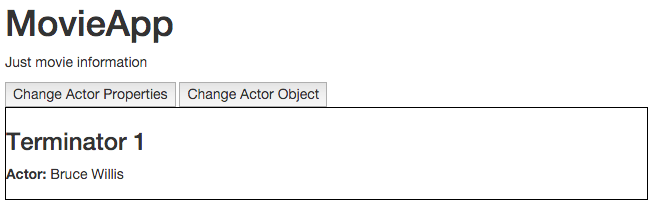
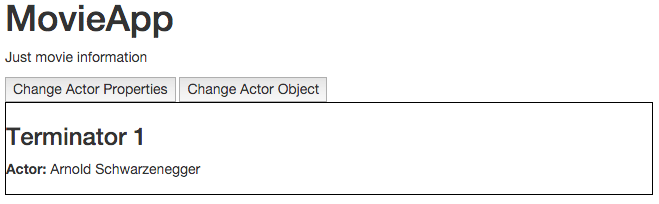
Completed handout for change detection

diff --git a/06-change-detection.md b/06-change-detection.md
@@ -1,21 +1,17 @@
 # Part 6: Change Detection
 
-In Angular 1, the framework kept a long list of watchers (one for every property bound to our templates) that needed to be checked everytime a change was detected in our application. This was called *dirty checking* and it was the only change detection strategy available.
+Change detecion has changed in a big way between the old version of Angular and the new one. In Angular 1, the framework kept a long list of watchers (one for every property bound to our templates) that needed to be checked everytime a digest cycle was started. This was called *dirty checking* and it was the only change detection strategy available.
 
-Because by default Angular 1 implemented two way data binding, the flow of changes was pretty much chaotic, models were able to change directives, directives were able to change models, directive
+Because by default Angular 1 implemented two way data binding, the flow of changes was pretty much chaotic, models were able to change directives, directives were able to change models, directive were able to change another directives and models were able to change another models.
 
-- Models were able to change the directives (`$scope`) and directives were able to change models.
-- Directives (`$scope`) were able to change its template (`DOM`) and the end user interacting with the template were able to change the directive.
-- Directives were able to change another directives.
-- Models were able to change another models.
+In Angular 2, **the flow of information is unidirectional**, even when using `ngModel` to implemente two way data binding, that is only syntactic sugar on top of unidrectional flow. In this new version of the framework, our code is responsible for updating the models. Angular is only going to be responsible to reflect those changes in the components and the DOM by means of the change detection.
 
-In Angular 2, **the flow of information is unidirectional**, even when using `ngModel` to implemente two way data binding, that is only syntactic sugar on top of unidrectional flow. In this new version of the framework, our code is responsible to update the models and propagate changes to other models if needed. Angular is only going to be responsible to reflect those changes in the components and the DOM by means of the change detection.
-
-*Change detection strategies in Angular 1 vs Angular 2* 
-
+_Change detection responsabilities_
 ![File Structure](images/change-detection.jpg)
 
-Another difference between both versions of the frameworks is the way the nodes of an application (directives or components) are checked to see if the DOM needs to be updated.
+## Change Detection Strategies in Angular 1 vs Angular 2
+
+Another difference between both versions of the framework is the way the nodes of an application (directives or components) are checked to see if the DOM needs to be updated.
 
 Because of the nature of two way data binding, in Angular 1 there was no guarantee that a parent node should be checked always before a child node. It was perfectly possible that a child node could also change a parent node or a sibling or any other node in the tree, and that in turn will trigger new updates down the chain. This made difficult for the change detector to traverse all the nodes without falling in a circular loop with the infamous message:
 
@@ -23,17 +19,19 @@ Because of the nature of two way data binding, in Angular 1 there was no guarant
 10 $digest() iterations reached. Aborting!
 ```
 
-In Angular 2, there is a guarantee that changes are propagated in an unidirectional way so the change detector **can traverse only 1** all the nodes of the application, starting always from the root. That means that a parent component is always checked first than its children components.
+In Angular 2, there is guarantee that changes are propagated in an unidirectional way so the change detector can **traverse only once all the nodes** of the application, starting always from the root. That means that a parent component is always checked first than its children components.
 
 *Tree traversing in Angular 1 vs Angular 2*
 
 ![File Structure](images/angular1-vs-angular2.jpg)
 
-Let's see how it works with a simple example.
+## How the Change Detection Works
 
-We are going to create a simple `MovieApp` to show information about one movie. This app is going to consist of two components, the `MovieComponent` who shows information about a movie and the `MainComponent` which holds a reference to the movie and buttons to perform actions.
+Let's see how the change detection works with a simple example.
 
-As always, the first step is to create our `index.html` file calling a root component of our app `MainComponent`.
+We are going to create a simple `MovieApp` to show information about one movie. This app is going to consist of two components, the `MovieComponent` that shows information about a movie, and the `MainComponent` which holds a reference to the movie with buttons to perform some actions.
+
+As always, the first step is to create our `index.html` file using the html element defined in our root component of our app `MainComponent`.
 
 *index.html*
 ```html
@@ -45,7 +43,17 @@ As always, the first step is to create our `index.html` file calling a root comp
 </html>
 ```
 
-Then, our `MainComponent` will have three properties, the `title` of the movie and the lead `actor`. All these properties are going to be passed to the `MovieComponent` element, referenced in the template.
+And the boot file to load the application.
+
+_app/boot.ts_
+```javascript
+import {bootstrap} from 'angular2/platform/browser';
+import {MainComponent} from './main.component';
+
+bootstrap(MainComponent);
+```
+
+Then, our `MainComponent` will have three properties, the `slogan` of the app, the `title` of the movie and the lead `actor`. The last two properties are going to be passed to the `MovieComponent` element, referenced in the template.
 
 *app/main.component.ts*
 ```javascript
@@ -82,7 +90,7 @@ export class MainComponent {
 bootstrap(MainComponent);
 ```
 
-We notice that this component also defines two buttons that triggers different actions or methods. The `changeActorProperties` is going to update the lead actor of the movie by means of changing directly the properties of the `actor` object. In contrast, the method `changeActorObject` will change the information of the actor by creating a completely new instance of the `Actor` class.
+In the above code snippet, we can see that our component defines two buttons that trigger different methods. The `changeActorProperties` is going to update the lead actor of the movie by means of changing directly the properties of the `actor` object. In contrast, the method `changeActorObject` will change the information of the actor by creating a completely new instance of the `Actor` class.
 
 The `Actor` model is pretty straightforward, is just a class that defines the `firstName` and the `lastName` of an actor. 
 
@@ -95,7 +103,7 @@ export class Actor {
 }
 ```
 
-Finally, the `MovieComponent` shows the information provided by the MainComponent in its template. It also defines an internal method to update the `actor` object by changing its properties.
+Finally, the `MovieComponent` shows the information provided by the MainComponent in its template.
 
 *app/movie.component.ts*
 ```javascript
@@ -120,13 +128,13 @@ export class MovieComponent {
 }
 ```
 
-The final result is shown in the screenshot below.
+The final result of the app is shown in the screenshot below.
 
 ![File Structure](images/app-screenshot.png)
 
 ## Change Detection Strategy: Default
 
-By default, Angular is defining certain Change Detection Strategy for every component in our application. To make this definition explicit, we can use the property `changeDetection` of the `@Component` decorator.
+By default, Angular is defining certain change detection strategy for every component in our application. To make this definition explicit, we can use the property `changeDetection` of the `@Component` decorator.
 
 _app/movie.component.ts_
 ```javascript
@@ -142,6 +150,8 @@ export class MovieComponent {
 }
 ```
 
+[View Example](http://plnkr.co/edit/n6m7rOtxG5MU0tsRl5xX?p=preview)
+
 The enum `ChangeDetectionStrategy` defines seven strategies: `CheckOnce`, `Checked`, `CheckAlways`, `Detached`, `OnPush`, `Default` and `DefaultObserver` as can be seen in the [docs](https://angular.io/docs/ts/latest/api/core/ChangeDetectionStrategy-enum.html). We are going to concetrate in the two main ones: `Default` and `OnPush`.
 
 Lets see what happens when a user clicks the button "Change Actor Properties" whe using the `Default` strategy. 
@@ -150,13 +160,13 @@ As we discuss before, changes are triggered by events and the propagation of cha
 
 **Phase 1 (Application):**
 
-In the first phase, our application (or our code) is responsable for updating the models in response to some event. In this scenario, the properties `actor.firstName` and `actor.lastName` are updated.
+In the first phase, the application (our code) is responsible for updating the models in response to some event. In this scenario, the properties `actor.firstName` and `actor.lastName` are updated.
 
 **Phase 2 (Change Detection):**
 
-Now that our models are updated, angular needs to update the templates using the Change Detection.
+Now that our models are updated, angular needs to update the templates using change detection.
 
-Change Detection always starts at the root component, in this case the `MainComponent` and it checks if any of the model properties bound to its template have changed, comparing the old value of each property (before the event was triggered) to the new one (after the models were updated). The MainComponent template has a reference to three properties, `slogan`, `title`, and `actor`, so the comparison made by the Change Detection will look like:
+Change detection always starts at the root component, in this case the `MainComponent` and it checks if any of the model properties bound to its template have changed, comparing the old value of each property (before the event was triggered) to the new one (after the models were updated). The `MainComponent` template has a reference to three properties, `slogan`, `title`, and `actor`, so the comparison made by the change detection will look like:
 
 - Is `(old)slogan === (new)slogan` Yes.
 - Is `(old)title === (new)title`? Yes.
@@ -164,7 +174,7 @@ Change Detection always starts at the root component, in this case the `MainComp
 
 Notice that even if we clearly changed the properties of the actor object, we are always working with the same `actor` instance so a shallow comparison will always return `true`. Even that apparently nothing changed in the template, the **default strategy** for the Change Detection is to traverse **all** the components of the tree whether or not they seem to be modified.
 
-Next, change detection is going to check the properties bound to the `MovieComponent`'s template doing a similar comparison:
+Next, change detection moves down in the component hierarchy and check the properties bound to the `MovieComponent`'s template doing a similar comparison:
 
 - Is `(old)title === (new)title`? Yes.
 - Is `(old)actor.firstName === (new)actor.firstName`? **No**.
@@ -172,7 +182,7 @@ Next, change detection is going to check the properties bound to the `MovieCompo
 
 Finally, Angular has detected that some of the properties bound to the template have changed so it will update the DOM to get the view in sync with the model.
 
-### Performance Impact
+## Performance Impact
 
 Traversing all the tree component to check for changes could be costly. Imagine that instead of just having one reference to `<movie>` inside our `MainComponent`'s template, we have multiple references?
 
@@ -180,13 +190,13 @@ Traversing all the tree component to check for changes could be costly. Imagine 
 <movie *ngFor="#movie of movies" [title]="movie.title" [actor]="movie.actor"></movie>`
 ```
 
-If our movie list grows too big the performance of our system could start degrading. We can narrow the problem to one particular comparison:
+If our movie list grows too big, the performance of our system will start degrading. We can narrow the problem to one particular comparison.
 
 - Is `(old)actor === (new)actor`?
 
-As we have learned, this result is of not much use because we could have changed the properties of the object without changing the instance and the result of the comparison will always be `true`.
+As we have learned, this result is of not much use because we could have changed the properties of the object without changing the instance, and the result of the comparison will always be `true`. Because of this, change detection is going to have to check every child component to see if any of the properties of that object (`firstName` or `lastName`) has changed.
 
-What if we can find a way to indicate to the Change Detection that our `MovieComponent` depends only on its inputs and that this condition can be guaranteed (pseudo code)?:
+What if we can find a way to indicate to the change detection that our `MovieComponent` depends only on its inputs and that these inputs are immutable? In short, we are trying to guarantee this condition (pseudo code)?:
 
 ```
 if `(old)actor === (new)actor`
@@ -199,11 +209,11 @@ If this can be guaranteed, then when checking the inputs of the `MovieComponent`
 - Is `(old)title === (new)title`? Yes.
 - Is `(old)actor === (new)actor`? Yes.
 
-Then we can skip the internal check of the component's template because we are now certain that nothing has changed internally and there's no need to update the DOM. This will improve the performance of the Change Detection system because fewers comparison has to be made to propagate changes through the app.
+Then we can skip the internal check of the component's template because we are now certain that nothing has changed internally and there's no need to update the DOM. This will improve the performance of the change detection system because fewers comparison has to be made to propagate changes through the app.
 
 ## Change Detection Strategy: OnPush
 
-To inform Angular that we are going to complain with the conditions mentioned before to improve performance, we are going to set the `OnPush` change detection strategie on the `MovieComponent`.
+To inform Angular that we are going to complain with the conditions mentioned before to improve performance, we are going to use the `OnPush` change detection strategy on the `MovieComponent`.
 
 _app/movie.component.ts_
 ```javascript
@@ -218,6 +228,8 @@ export class MovieComponent {
 }
 ```
 
+[View Example](http://plnkr.co/edit/bczNU8cnoNGnHckLbWt8?p=preview)
+
 This will inform Angular that our component only depends on its inputs and that any object that is passed to it should be considered immutable. This time when we click the button "Change Actor Properties" nothing changes in the view.
 
 Lets follow again the logic behind it. When the user clicks the button, the method `changeActorProperties` is called and the properties of the `actor` object get updated.
@@ -230,17 +242,17 @@ When change detector analyze the properties bound to the `MainComponent`'s templ
 
 But this time, we told explictly Angular that our component only depends on its inputs and all of them are immutable. Angular then assumes that the `MovieComponent` hasn't change and skip the check for that component. Because we didn't enforced the `actor` object to be immutable, we end up with our model out of sync with the view.
 
-Let's rerun the app but this time we will click the button `ChangeActorObject`. This time, we are creating a new instance of the `Actor` class and assing it to the `this.actor` object. When the Change Detection analyze the properties bound to the `MainComponent`'s template it will find:
+Let's rerun the app but this time we will click the button `ChangeActorObject`. This time, we are creating a new instance of the `Actor` class and assing it to the `this.actor` object. When the change detection analyze the properties bound to the `MainComponent`'s template it will find:
 
 - Is `(old)slogan === (new)slogan` Yes.
 - Is `(old)title === (new)title`? Yes.
 - Is `(old)actor === (new)actor`? **No**.
 
-Because now Change Detection knows that the `actor` object changed (it's a new instance) it will go ahead and continue checking the template for `MovieComponent` to update its view. At the end, our templates and our models are going to be in sync.
+Because now change detection knows that the `actor` object changed (it's a new instance) it will go ahead and continue checking the template for `MovieComponent` to update its view. At the end, our templates and models end up being in sync.
 
 ## Enforcing immutability
 
-As we could see, in a previous example we cheated a little. We told Angular that all of our inputs, including the `actor` object, were immutable objects, but we went ahead and updated its properties violating the immutability principle. As a result we ended with a sync problem between our models and our views. One way to enforce immutability is using [Immutable.js](https://facebook.github.io/immutable-js/).
+As we can see, in the previous example we cheated a little. We told Angular that all of our inputs, including the `actor` object, were immutable objects, but we went ahead and updated its properties violating the immutability principle. As a result we ended with a sync problem between our models and our views. One way to enforce immutability is using the library [Immutable.js](https://facebook.github.io/immutable-js/).
 
 Because in javascript primitive types like `string` and `number` are immutable by definition, we should only take care of the objects we are using. In this case, the `actor` object.
 
@@ -250,17 +262,70 @@ First, we need to install the `immutable.js` library using the command:
 npm install --save immutable
 ```
 
-Then, in our `MainComponent` we import the library and we use it to create an actor object as an immutable.
+Then, in our `MainComponent` we import the library and use it to create an actor object as an immutable.
 
+_app/main.component.ts_
+```javascript
+///<reference path='../node_modules/immutable/dist/immutable.d.ts'/>
+import {Component} from 'angular2/core';
+import {bootstrap} from 'angular2/platform/browser';
+import {MovieComponent} from './movie.component';
+import * as Immutable from '../node_modules/immutable/dist/immutable.js';
 
+@Component({
+  selector: 'main',
+  directives: [MovieComponent],
+  template: `
+    <h1>MovieApp</h1>
+    <p>{{ slogan }}</p>
+    <button type="button" (click)="changeActor()">Change Actor</button>
+    <movie [title]="title" [actor]="actor"></movie>`
+})
+export class MainComponent {
+  slogan: string = 'Just movie information';
+  title: string = 'Terminator 1';
+  actor: Immutable.Map<string, string> = Immutable.Map({firstName: 'Arnold', lastName: 'Schwarzenegger'});
+  
+  changeActor(): void {
+    this.actor = this.actor.merge({firstName: 'Nicholas', lastName: 'Cage'});
+  }
+}
 
+bootstrap(MainComponent);
+```
 
+Now, instead of creating an instance of an `Actor` class, we are now defining an immutable object using `Immutable.Map`. Because `this.actor` is now an immutable object, we cannot change its internal properties `firstName` and `lastName` directly. What we can do however is to create another object based on `actor` that have different values for both fields and that is exactly what the `merge` method does.
 
+Because we are always getting a new object when we tried to change the `actor`, there's not point on having two different methods in our component. We removed the methods `changeActorProperties` and `changeActorObject` and created a new one simply called `changeActor`.
 
+Additional changes have to be made to the `MovieComponent` as well. First, we need to declare the `actor` object as an immutable, and in the template, instead of trying to access the object properties directly using a syntax like `actor.firstName`, we need to resort on the `get` method of the immutable.
 
+_app/movie.component.ts_
+```javascript
+///<reference path='../node_modules/immutable/dist/immutable.d.ts'/>
+import {Component, Input} from 'angular2/core';
+import {ChangeDetectionStrategy} from 'angular2/core';
+import * as Immutable from '../node_modules/immutable/dist/immutable.js';
 
+@Component({
+  selector: 'movie',
+  styles: ['div {border: 1px solid black}'],
+  template: `
+    <div>
+      <h3>{{ title }}</h3>
+      <p>
+        <label>Actor:</label>
+        <span>{{actor.get('firstName')}} {{actor.get('lastName')}}</span>
+      </p>
+    </div>`,
+  changeDetection: ChangeDetectionStrategy.OnPush
+})
+export class MovieComponent {
+  @Input() title: string;
+  @Input() actor: Immutable.Map<string, string>;
+}
+```
 
+[View Example]()
 
-
-
-
+Using this pattern we are taking fully advantage of the "OnPush" change detection strategy and thus reducing the amount of work done by Angular to propagate changes and get models and views in sync, improving in turn the performance of our application.
